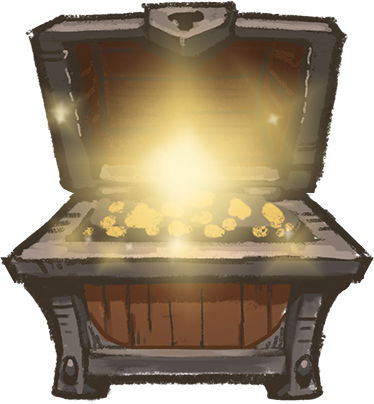
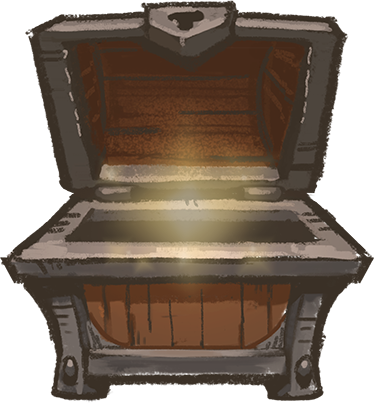
宝箱房间内获得的元素的图标增加亮光背景  并根据奖励数量调整各个图标或及动画大小

diff --git a/client/src/view/BoxRoomView.ts b/client/src/view/BoxRoomView.ts
@@ -12,6 +12,7 @@ class BoxRoomView extends egret.DisplayObjectContainer {
     private startingPoint:egret.Bitmap;
     private destination:egret.Bitmap;
     private boxEff:egret.MovieClip;
+    private scale:number;
     public confirmOkYesNo;
     public static showElemDesc;
     
@@ -77,7 +78,7 @@ class BoxRoomView extends egret.DisplayObjectContainer {
         var arr = [];
         
         // 有可能有遗物改变这个数量
-        var onOpenBoxRoomPs = {relicNum:1, propNum:1, coinsnum:cfg.coins};
+        var onOpenBoxRoomPs = {relicNum:2, propNum:1, coinsnum:cfg.coins};
         this.player.triggerLogicPointSync("onOpenBoxRoom", onOpenBoxRoomPs);
 
         // 宝箱中的遗物
@@ -96,12 +97,18 @@ class BoxRoomView extends egret.DisplayObjectContainer {
         var coinsnum = onOpenBoxRoomPs.coinsnum;
         arr.push("Coins");
         
+        this.scale = arr.length == 3 ? 1.3 : 1;
+        
         for(var i = 0; i < arr.length; i++){
             let elemImg = new TextButtonWithBg((arr[i] == "Coins" ? "Coins9" : arr[i]) + "_png");
             elemImg.touchEnabled = true;
-            elemImg.x = 320 + (i - (arr.length - 1) / 2) * 114 - 42;
-            elemImg.y = 380 - 42;
+            elemImg.x = 320 + (i - (arr.length - 1) / 2) * 120 * this.scale - 42 * this.scale;
+            elemImg.y = 430 - 42 / this.scale;
+            elemImg.scaleX = elemImg.scaleY = this.scale;
             this.elemImgs.push(elemImg);
+            elemImg["flashBg"] = this.setElemImgFlashBg(elemImg, this.scale);
+            elemImg["flashBg"].alpha = 0;
+            this.addChild(elemImg["flashBg"]);
             this.addChild(elemImg);
             elemImg.alpha = 0;
             elemImg.touchEnabled = false;
@@ -110,7 +117,7 @@ class BoxRoomView extends egret.DisplayObjectContainer {
             else
                 elemImg["e"] = ElemFactory.create(arr[i], {cnt:coinsnum});
             
-            elemImg.onClicked = () => BoxRoomView.showElemDesc(elemImg["e"]);
+            elemImg.onClicked = () => BoxRoomView.showElemDesc(elemImg["e"]);            
         }
 
         ViewUtils.setTexName(this.box, "BoxRoomBox_png");
@@ -158,7 +165,8 @@ class BoxRoomView extends egret.DisplayObjectContainer {
             fromImg.x = this.startingPoint.x;
             fromImg.y = this.startingPoint.y;
             fromImg.width = elemImg.width / 2;
-            fromImg.height = elemImg.height / 2;            
+            fromImg.height = elemImg.height / 2;
+            fromImg.scaleX = fromImg.scaleY = this.scale;
             var toImg = elemImg;
             await Utils.delay(200);
             if(i == this.elemImgs.length - 1){
@@ -166,6 +174,7 @@ class BoxRoomView extends egret.DisplayObjectContainer {
                 await AniUtils.fly2(fromImg, fromImg, toImg, false, 1);
                 fromImg["dispose"]();
                 elemImg.alpha = 1;
+                elemImg["flashBg"].alpha = 1;
                 elemImg.touchEnabled = true;
             }
             else{
@@ -173,6 +182,7 @@ class BoxRoomView extends egret.DisplayObjectContainer {
                 AniUtils.fly2(fromImg, fromImg, toImg, true, 1).then(() => {
                     fromImg["dispose"]();
                     elemImg.alpha = 1;
+                    elemImg["flashBg"].alpha = 1;
                     elemImg.touchEnabled = true;
                 });
             }
@@ -189,16 +199,19 @@ class BoxRoomView extends egret.DisplayObjectContainer {
             fromImg.x = elemImg.x;
             fromImg.y = elemImg.y;
             fromImg.width = elemImg.width;
-            fromImg.height = elemImg.height;            
+            fromImg.height = elemImg.height;
+            fromImg.scaleX = fromImg.scaleY = this.scale;
             var toImg = this.destination;
             await Utils.delay(200);
             if(i == this.elemImgs.length - 1){
+                this.removeChild(elemImg["flashBg"]);
                 await AniUtils.flash(fromImg, 200, false);
                 await AniUtils.fly2(fromImg, fromImg, toImg, false, 1);
                 fromImg["dispose"]();
                 elemImg.touchEnabled = false;
             }
             else{
+                this.removeChild(elemImg["flashBg"]);
                 AniUtils.flash(fromImg, 200, false);
                 AniUtils.fly2(fromImg, fromImg, toImg, false, 1).then(() => {
                     fromImg["dispose"]();
@@ -206,5 +219,16 @@ class BoxRoomView extends egret.DisplayObjectContainer {
             }
             this.player.addItem(e);
         }
+    }
+
+    // 添加元素图标的背景闪光
+    setElemImgFlashBg(img:egret.DisplayObject, scale:number){
+        let flashBg = ViewUtils.createBitmapByName("BoxRoomFlash_png");
+        flashBg.anchorOffsetX = flashBg.width / 2;
+        flashBg.anchorOffsetY = flashBg.height / 2;
+        flashBg.x = img.x + img.width * scale / 2;
+        flashBg.y = img.y + img.height * scale / 2;
+        flashBg.scaleX = flashBg.scaleY = scale;
+        return flashBg;
     }
 }
